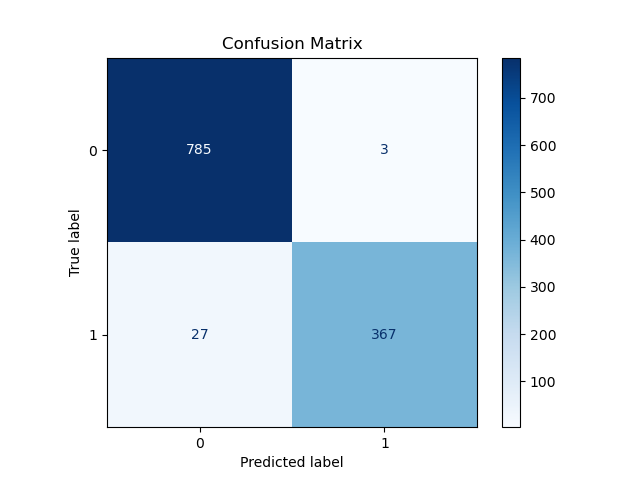
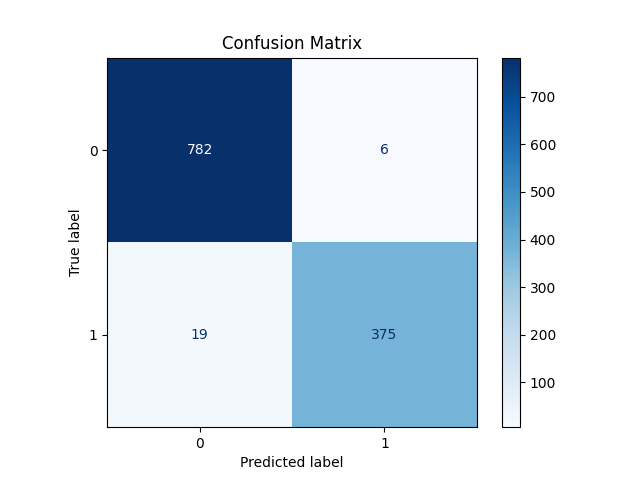
Updated model files, evaluation plots, and web interface components

diff --git a/static/css/style.css b/static/css/style.css
@@ -1,6 +1,7 @@
 /* Fraud Detection System - Modern UI Styles */
 
 :root {
+    /* Light mode colors */
     --primary-color: #2563eb;
     --success-color: #16a34a;
     --danger-color: #dc2626;
@@ -14,6 +15,42 @@
     --text-secondary: #6b7280;
     --shadow: 0 1px 3px 0 rgba(0, 0, 0, 0.1), 0 1px 2px 0 rgba(0, 0, 0, 0.06);
     --shadow-lg: 0 10px 15px -3px rgba(0, 0, 0, 0.1), 0 4px 6px -2px rgba(0, 0, 0, 0.05);
+
+    /* Dark mode colors */
+    --dark-primary-color: #3b82f6;
+    --dark-success-color: #22c55e;
+    --dark-danger-color: #ef4444;
+    --dark-warning-color: #f59e0b;
+    --dark-info-color: #06b6d4;
+    --dark-secondary-color: #9ca3af;
+    --dark-light-bg: #0f172a;
+    --dark-card-bg: #1e293b;
+    --dark-border-color: #334155;
+    --dark-text-primary: #f1f5f9;
+    --dark-text-secondary: #cbd5e1;
+    --dark-shadow: 0 1px 3px 0 rgba(0, 0, 0, 0.3), 0 1px 2px 0 rgba(0, 0, 0, 0.2);
+    --dark-shadow-lg: 0 10px 15px -3px rgba(0, 0, 0, 0.3), 0 4px 6px -2px rgba(0, 0, 0, 0.2);
+}
+
+/* Dark mode styles */
+[data-theme="dark"] {
+    --primary-color: var(--dark-primary-color);
+    --success-color: var(--dark-success-color);
+    --danger-color: var(--dark-danger-color);
+    --warning-color: var(--dark-warning-color);
+    --info-color: var(--dark-info-color);
+    --secondary-color: var(--dark-secondary-color);
+    --light-bg: var(--dark-light-bg);
+    --card-bg: var(--dark-card-bg);
+    --border-color: var(--dark-border-color);
+    --text-primary: var(--dark-text-primary);
+    --text-secondary: var(--dark-text-secondary);
+    --shadow: var(--dark-shadow);
+    --shadow-lg: var(--dark-shadow-lg);
+}
+
+[data-theme="dark"] body {
+    background: linear-gradient(135, #0f172a 0%, #1e293b 100%);
 }
 
 * {
@@ -136,6 +173,63 @@ body {
 .logout-btn:hover {
     background: #4b5563;
     transform: translateY(-1px);
+}
+
+/* Theme Toggle */
+.theme-toggle {
+    background: none;
+    border: 2px solid var(--border-color);
+    border-radius: 50%;
+    width: 40px;
+    height: 40px;
+    display: flex;
+    align-items: center;
+    justify-content: center;
+    cursor: pointer;
+    transition: all 0.3s ease;
+    position: relative;
+    overflow: hidden;
+}
+
+.theme-toggle:hover {
+    border-color: var(--primary-color);
+    transform: scale(1.05);
+}
+
+.theme-toggle .fa-moon {
+    color: var(--text-secondary);
+    position: absolute;
+    transition: all 0.3s ease;
+}
+
+.theme-toggle .fa-sun {
+    color: #f59e0b;
+    position: absolute;
+    opacity: 0;
+    transform: rotate(180deg) scale(0.5);
+    transition: all 0.3s ease;
+}
+
+/* Dark mode toggle state */
+[data-theme="dark"] .theme-toggle .fa-moon {
+    opacity: 0;
+    transform: rotate(-180deg) scale(0.5);
+}
+
+[data-theme="dark"] .theme-toggle .fa-sun {
+    opacity: 1;
+    transform: rotate(0deg) scale(1);
+}
+
+/* Light mode toggle state */
+[data-theme="light"] .theme-toggle .fa-moon {
+    opacity: 1;
+    transform: rotate(0deg) scale(1);
+}
+
+[data-theme="light"] .theme-toggle .fa-sun {
+    opacity: 0;
+    transform: rotate(180deg) scale(0.5);
 }
 
 /* Main Content */
@@ -489,6 +583,24 @@ body {
     border-radius: 12px;
     padding: 24px;
     border: 1px solid var(--border-color);
+}
+
+/* Dark mode result card styling */
+[data-theme="dark"] .result-card {
+    background: linear-gradient(135deg, #1e293b 0%, #334155 100%);
+    border: 1px solid #475569;
+}
+
+[data-theme="dark"] .result-details {
+    border-top: 1px solid #475569;
+}
+
+[data-theme="dark"] .metric {
+    border-bottom: 1px solid #334155;
+}
+
+[data-theme="dark"] .metric:last-child {
+    border-bottom: none;
 }
 
 .result-header {

diff --git a/static/js/app.js b/static/js/app.js
@@ -8,6 +8,7 @@ document.addEventListener('DOMContentLoaded', function() {
     initializeForm();
     setupEventListeners();
     initializeValidation();
+    initializeTheme();
 });
 
 // Initialize form with validation
@@ -352,6 +353,37 @@ function validateForm() {
     });
 
     return isValid;
+}
+
+// Initialize theme on page load
+function initializeTheme() {
+    const savedTheme = localStorage.getItem('theme') || 'light';
+    setTheme(savedTheme);
+
+    // Add click handler for theme toggle
+    const themeToggle = document.getElementById('themeToggle');
+    if (themeToggle) {
+        themeToggle.addEventListener('click', toggleTheme);
+    }
+}
+
+// Toggle between light and dark themes
+function toggleTheme() {
+    const currentTheme = document.documentElement.getAttribute('data-theme') || 'light';
+    const newTheme = currentTheme === 'light' ? 'dark' : 'light';
+    setTheme(newTheme);
+}
+
+// Set the theme
+function setTheme(theme) {
+    document.documentElement.setAttribute('data-theme', theme);
+    localStorage.setItem('theme', theme);
+
+    // Update toggle button appearance
+    const themeToggle = document.getElementById('themeToggle');
+    if (themeToggle) {
+        themeToggle.setAttribute('title', `Switch to ${theme === 'light' ? 'dark' : 'light'} mode`);
+    }
 }
 
 // Add loading state to form submission

diff --git a/templates/index.html b/templates/index.html
@@ -18,6 +18,10 @@
                     Model Status: {{ 'Active' if model_loaded else 'Inactive' }}
                 </div>
                 <div class="user-info">
+                    <button id="themeToggle" class="theme-toggle" title="Toggle Dark Mode">
+                        <i class="fas fa-moon"></i>
+                        <i class="fas fa-sun"></i>
+                    </button>
                     <span class="user-welcome">
                         <i class="fas fa-user"></i> Welcome, {{ user }}!
                         {% if role == 'admin' %}